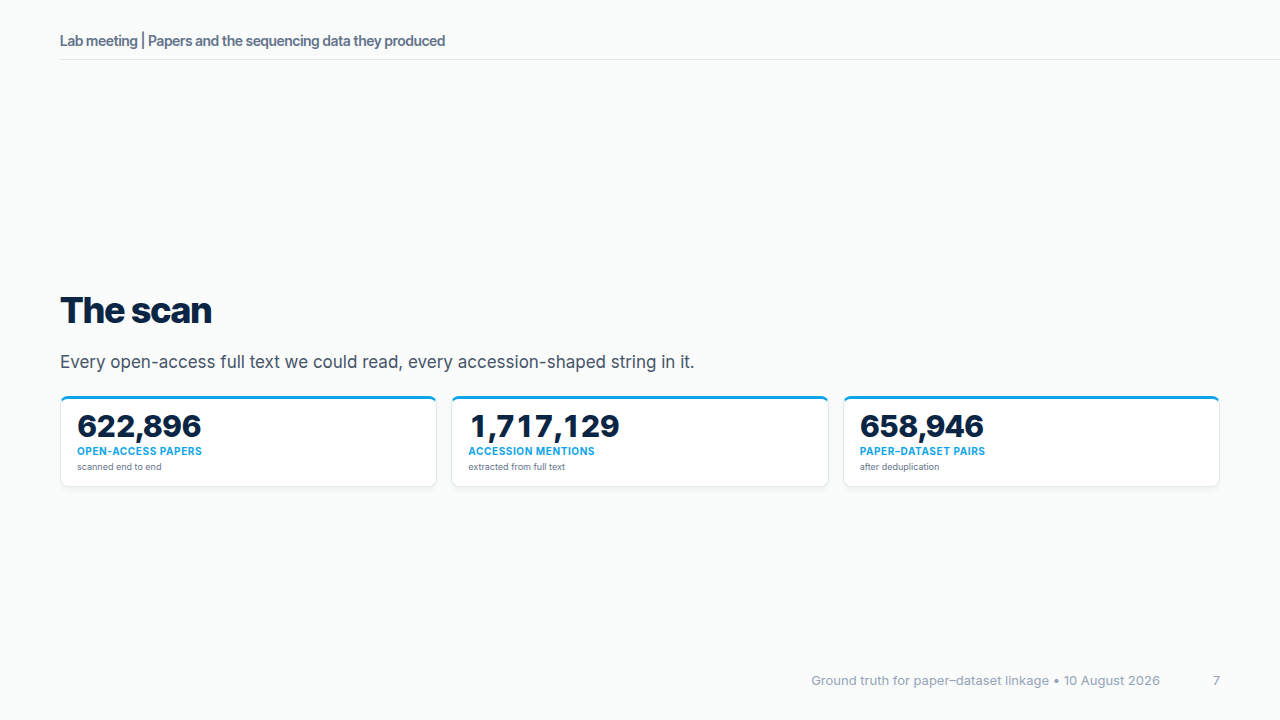
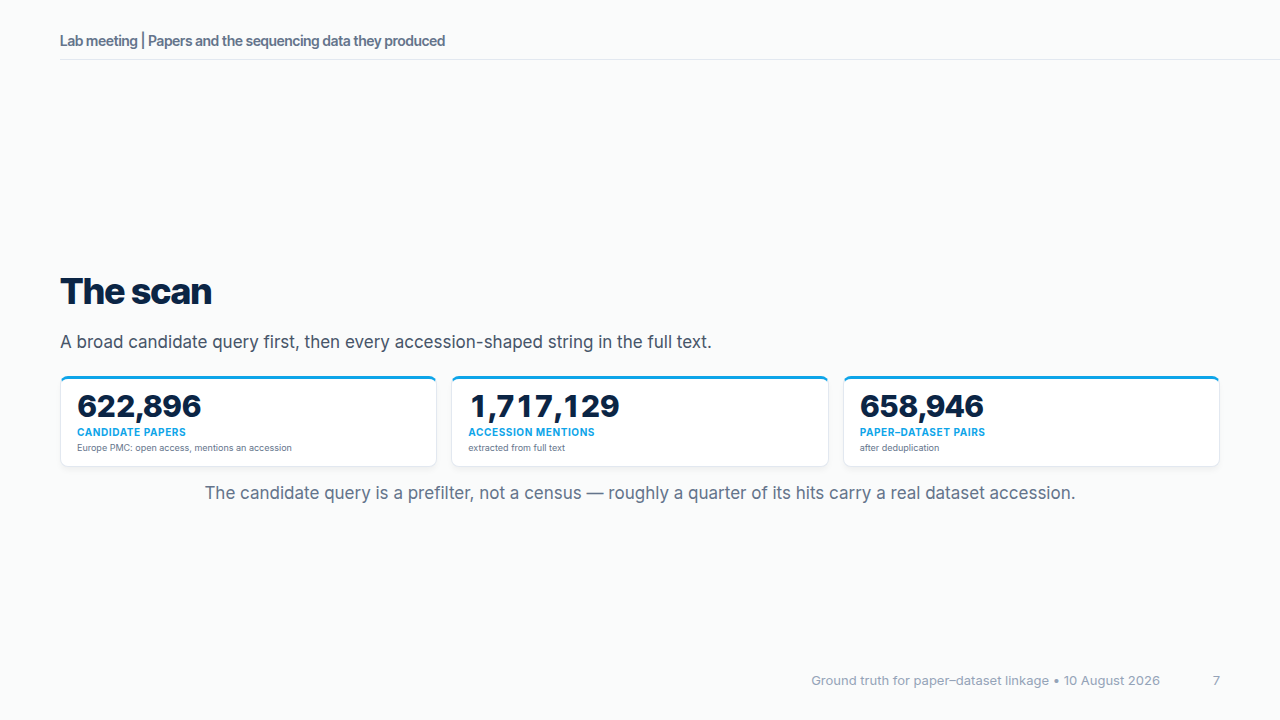
Correct six figures in the paper-SRA linkage deck
Author rulings applied against the source data in metadata/paper-sra-linkage:

- Scan slide: 622,896 is the Europe PMC candidate query, a ~25%-precision
  prefilter, not "open-access papers scanned end to end". Relabelled here and
  on takeaways; completeness claim removed.
- Near-misses: headline is now "all 33 GEO-routed papers in a sample of 40
  never write the BioProject accession", with 36 of 40 (counting every alias)
  as the broader claim. The old wording attributed all 36 to GEO.
- Self-checks: fabrication 7.5% (18 of 241), the figure the audit tooling
  reproduces, plus the near-miss caveat. 4.6% dropped.
- Validation: 117 / 2 / 96% / ~32% now state their population — adjudications
  with full-text evidence and a verifying quote.
- Reach slide becomes "What it actually decides": the signal has been run over
  all 140,768 GEO series, deciding 387,914 pairs (59%), rescuing 138,836 from
  ambiguous, and disagreeing with the text classifier on only 2.0% of the
  249,078 pairs where both commit. Projected deliverable 83,164 -> 138,192.
  The reachable-vs-decided gap stays visible as a caveat.
- 0.8% author-overlap null now has a reproducible artifact; CLAUDE.md cites it.

CLAUDE.md records how each was resolved and warns that data/status.json and
its sibling logs carry a superseded relation split.

Changed region(s): [[0.0312, 0.3667, 0.9375, 0.7028]]

diff --git a/paper_sra_linkage_Aug_2026/slides.html b/paper_sra_linkage_Aug_2026/slides.html
@@ -90,8 +90,9 @@
 <header>Lab meeting | Papers and the sequencing data they produced</header>
 
 <h1 id="the-scan">The scan</h1>
-<p>Every open-access full text we could read, every accession-shaped string in it.</p>
-<div class="stats accent-sky" style="--cols:3"><div class="stat"><span class="stat-value">622,896</span><span class="stat-label">open-access papers</span><span class="stat-note">scanned end to end</span></div><div class="stat"><span class="stat-value">1,717,129</span><span class="stat-label">accession mentions</span><span class="stat-note">extracted from full text</span></div><div class="stat"><span class="stat-value">658,946</span><span class="stat-label">paper–dataset pairs</span><span class="stat-note">after deduplication</span></div></div><footer>Ground truth for paper–dataset linkage • 10 August 2026</footer>
+<p>A broad candidate query first, then every accession-shaped string in the full text.</p>
+<div class="stats accent-sky" style="--cols:3"><div class="stat"><span class="stat-value">622,896</span><span class="stat-label">candidate papers</span><span class="stat-note">Europe PMC: open access, mentions an accession</span></div><div class="stat"><span class="stat-value">1,717,129</span><span class="stat-label">accession mentions</span><span class="stat-note">extracted from full text</span></div><div class="stat"><span class="stat-value">658,946</span><span class="stat-label">paper–dataset pairs</span><span class="stat-note">after deduplication</span></div></div><p class="dim center">The candidate query is a prefilter, not a census — roughly a quarter of its hits carry a real dataset accession.</p>
+<footer>Ground truth for paper–dataset linkage • 10 August 2026</footer>
 </section>
 </foreignObject></svg><svg data-marpit-svg="" viewBox="0 0 1280 720"><foreignObject width="1280" height="720"><section id="8" data-paginate="true" data-header="Lab meeting | Papers and the sequencing data they produced" data-footer="Ground truth for paper–dataset linkage • 10 August 2026" data-class="compact middle" data-theme="deckkit" lang="en-US" class="compact middle" data-marpit-pagination="8" style="--paginate:true;--header:Lab meeting | Papers and the sequencing data they produced;--footer:Ground truth for paper–dataset linkage • 10 August 2026;--class:compact middle;--theme:deckkit;" data-marpit-pagination-total="20" data-size="16:9">
 <header>Lab meeting | Papers and the sequencing data they produced</header>
@@ -123,14 +124,16 @@
 </div></div><div class="card card-left accent-indigo size-md"><div class="card-title">Independent adjudicator</div><div class="card-body"><p>A second model in a fresh context that never saw the classifier or its rules. The author of a rule is not a neutral judge of that rule.</p>
 </div></div><div class="card card-left accent-purple size-md"><div class="card-title">Verbatim quote, mechanically checked</div><div class="card-body"><p>Every verdict must carry a quote, checked character-for-character against the source. A fluent justification for a claim the paper never makes gets caught automatically.</p>
 </div></div><div class="card card-left accent-emerald size-md"><div class="card-title">Human spot check</div><div class="card-body"><p>The lab, in interview format, one paper at a time.</p>
-</div></div></div><div class="metrics accent-purple"><div class="metric"><span class="metric-name">Genuine fabrication rate the guards measured</span><span class="metric-value">4.6%</span></div></div><footer>Ground truth for paper–dataset linkage • 10 August 2026</footer>
+</div></div></div><div class="metrics accent-purple"><div class="metric"><span class="metric-name">Fabrication rate the guards measured</span><span class="metric-value">7.5% (18 of 241 verdicts)</span></div></div><p class="dim center">Inspection suggests roughly half of the 18 are near-misses — whitespace, a minor edit, a quote spanning a paragraph break — rather than invention.</p>
+<footer>Ground truth for paper–dataset linkage • 10 August 2026</footer>
 </section>
 </foreignObject></svg><svg data-marpit-svg="" viewBox="0 0 1280 720"><foreignObject width="1280" height="720"><section id="11" data-paginate="true" data-header="Lab meeting | Papers and the sequencing data they produced" data-footer="Ground truth for paper–dataset linkage • 10 August 2026" data-class="compact middle" data-theme="deckkit" lang="en-US" class="compact middle" data-marpit-pagination="11" style="--paginate:true;--header:Lab meeting | Papers and the sequencing data they produced;--footer:Ground truth for paper–dataset linkage • 10 August 2026;--class:compact middle;--theme:deckkit;" data-marpit-pagination-total="20" data-size="16:9">
 <header>Lab meeting | Papers and the sequencing data they produced</header>
 
 <h1 id="attempt-1--validation">Attempt 1 — validation</h1>
 <p>When the text classifier commits to an answer, it is right. It just rarely commits.</p>
-<div class="cols" style="grid-template-columns:1fr 1fr"><div class="col"><div class="metrics accent-emerald"><div class="metric"><span class="metric-name">Pairs where the classifier committed</span><span class="metric-value">117</span></div><div class="metric"><span class="metric-name">Contradicted by the independent adjudicator</span><span class="metric-value">2</span></div><div class="metric"><span class="metric-name">Precision on &quot;generated&quot;</span><span class="metric-value">96%</span></div><div class="metric"><span class="metric-name">Abstains even where the text <em>does</em> settle it</span><span class="metric-value">~32%</span></div></div></div><div class="col"><div class="note accent-amber"><p><strong>The problem is recall, not precision.</strong></p>
+<div class="cols" style="grid-template-columns:1fr 1fr"><div class="col"><div class="metrics accent-emerald"><div class="metric"><span class="metric-name">Pairs where the classifier committed</span><span class="metric-value">117</span></div><div class="metric"><span class="metric-name">Contradicted by the independent adjudicator</span><span class="metric-value">2</span></div><div class="metric"><span class="metric-name">Precision on &quot;generated&quot;</span><span class="metric-value">96%</span></div><div class="metric"><span class="metric-name">Abstains even where the text <em>does</em> settle it</span><span class="metric-value">~32%</span></div></div><p class="dim">Computed over the adjudications that had real full-text evidence <strong>and</strong> a quote that verified against the source.</p>
+</div><div class="col"><div class="note accent-amber"><p><strong>The problem is recall, not precision.</strong></p>
 <p>Tuning the rules harder would not help. The classifier is not making mistakes — it is staying silent, because the sentence it needs is usually not there.</p>
 </div></div></div><footer>Ground truth for paper–dataset linkage • 10 August 2026</footer>
 </section>
@@ -148,7 +151,8 @@
 </div></div><div class="card card-top accent-amber size-sm"><div class="card-tag">silent corruption</div><div class="card-title">A fix that fabricated data</div><div class="card-body"><p>Accessions sometimes fuse with citation superscripts in the text. The &quot;fix&quot; trimmed trailing digits.</p>
 <p>Trimming a real accession lands on a <strong>different real accession 28–99% of the time</strong>, depending on prefix.</p>
 <p>Losing a mention is recoverable. Silently rewriting one into another group's dataset is not. The fix was removed entirely.</p>
-</div></div><div class="card card-top accent-purple size-sm"><div class="card-tag">wrong search term</div><div class="card-title">The hidden BioProject</div><div class="card-body"><p>Papers routed through GEO cite the GEO series accession and never write the BioProject ID at all — <strong>36 of 40</strong> in a hand-checked sample.</p>
+</div></div><div class="card card-top accent-purple size-sm"><div class="card-tag">wrong search term</div><div class="card-title">The hidden BioProject</div><div class="card-body"><p>Papers routed through GEO cite the GEO series accession and never write the BioProject ID at all — <strong>all 33</strong> GEO-routed papers in a hand-checked sample of 40.</p>
+<p>Counting every alias, <strong>36 of 40</strong> never write the BioProject accession.</p>
 <p>Searching the paper for the BioProject finds nothing, and &quot;nothing&quot; looked like <em>no evidence</em> when it actually meant <em>wrong search term</em>.</p>
 </div></div></div><footer>Ground truth for paper–dataset linkage • 10 August 2026</footer>
 </section>
@@ -193,9 +197,11 @@
 </foreignObject></svg><svg data-marpit-svg="" viewBox="0 0 1280 720"><foreignObject width="1280" height="720"><section id="17" data-paginate="true" data-header="Lab meeting | Papers and the sequencing data they produced" data-footer="Ground truth for paper–dataset linkage • 10 August 2026" data-class="compact middle" data-theme="deckkit" lang="en-US" class="compact middle" data-marpit-pagination="17" style="--paginate:true;--header:Lab meeting | Papers and the sequencing data they produced;--footer:Ground truth for paper–dataset linkage • 10 August 2026;--class:compact middle;--theme:deckkit;" data-marpit-pagination-total="20" data-size="16:9">
 <header>Lab meeting | Papers and the sequencing data they produced</header>
 
-<h1 id="how-far-this-reaches">How far this reaches</h1>
-<p>Nearly two thirds of everything we extracted routes through GEO — and so is reachable this way.</p>
-<div class="stats accent-indigo" style="--cols:2"><div class="stat"><span class="stat-value">422,514</span><span class="stat-label">GEO-routed pairs</span><span class="stat-note">64% of the 658,946 we extracted</span></div><div class="stat"><span class="stat-value">155,741</span><span class="stat-label">currently stuck</span><span class="stat-note">ambiguous pairs this signal can reach</span></div></div><footer>Ground truth for paper–dataset linkage • 10 August 2026</footer>
+<h1 id="what-it-actually-decides">What it actually decides</h1>
+<p>Signal A has now been run across all 140,768 GEO series and loaded.</p>
+<div class="stats accent-indigo" style="--cols:3"><div class="stat"><span class="stat-value">387,914</span><span class="stat-label">pairs decided</span><span class="stat-note">59% of the 658,946 we extracted</span></div><div class="stat"><span class="stat-value">138,836</span><span class="stat-label">rescued from ambiguous</span><span class="stat-note">67,715 of them newly <em>generated</em></span></div><div class="stat"><span class="stat-value">138,192</span><span class="stat-label">papers in the deliverable</span><span class="stat-note">up from 83,164 — a 66% increase</span></div></div><div class="callout accent-emerald"><div class="callout-title"><span>🤝</span><span>Two methods sharing no evidence agree on 98% of pairs</span></div><div class="callout-body"><p>Where the text classifier also committed, the two disagree on <strong>2.0%</strong> — 5,077 of 249,078 pairs. One reads prose, the other reads archive metadata, and neither was tuned against the other.</p>
+</div></div><div class="note accent-slate"><p>88% holds at full scale: 123,121 of 140,368 series carry a linked publication. And 422,514 pairs — 64% of the total — are GEO-<em>reachable</em>, but only 387,914 are decided; the gap is series with no linked publication at all.</p>
+</div><footer>Ground truth for paper–dataset linkage • 10 August 2026</footer>
 </section>
 </foreignObject></svg><svg data-marpit-svg="" viewBox="0 0 1280 720"><foreignObject width="1280" height="720"><section id="18" data-paginate="true" data-header="Lab meeting | Papers and the sequencing data they produced" data-footer="Ground truth for paper–dataset linkage • 10 August 2026" data-class="compact middle" data-theme="deckkit" lang="en-US" class="compact middle" data-marpit-pagination="18" style="--paginate:true;--header:Lab meeting | Papers and the sequencing data they produced;--footer:Ground truth for paper–dataset linkage • 10 August 2026;--class:compact middle;--theme:deckkit;" data-marpit-pagination-total="20" data-size="16:9">
 <header>Lab meeting | Papers and the sequencing data they produced</header>
@@ -209,17 +215,17 @@
 <header>Lab meeting | Papers and the sequencing data they produced</header>
 
 <h1 id="where-we-are-and-what-is-next">Where we are, and what is next</h1>
-<p>The table as it stands today, and the three steps queued behind it.</p>
-<div class="stats accent-emerald tight" style="--cols:3"><div class="stat"><span class="stat-value">83,164</span><span class="stat-label">papers</span><span class="stat-note">linked to data they generated</span></div><div class="stat"><span class="stat-value">95,831</span><span class="stat-label">datasets</span><span class="stat-note">attributed to a generating paper</span></div><div class="stat"><span class="stat-value">1</span><span class="stat-label">median datasets per paper</span><span class="stat-note">most papers produce exactly one</span></div></div><div class="timeline"><div class="track accent-indigo"><div class="track-header"><div class="track-title">Queued behind it</div></div><div class="track-lane"><div class="node node-lg" style="--x:12%"><div class="node-dot"></div><div class="node-info">Running now<span class="node-value">140,768 series</span><span class="node-note">GEO→PMID across<br />every GEO series</span></div></div><div class="node node-md" style="--x:50%"><div class="node-dot"></div><div class="node-info">Next<span class="node-value">BioSample</span><span class="node-note">Re-measure richness<br />from sample records</span></div></div><div class="node node-open" style="--x:88%"><div class="node-dot"></div><div class="node-info">Then<span class="node-value">Experiment</span><span class="node-note">Reconstruct metadata<br />from the paper alone</span></div></div></div></div></div><div class="callout accent-amber callout-slim"><div class="callout-title"><span>🔬</span><span>Why richness gets re-measured</span></div><div class="callout-body"><p>The reconstruction experiment needs datasets whose metadata is worth hiding. We measured that on sequencing-<strong>run</strong> records — median <strong>1</strong> sample group, attribute entropy <strong>0.0</strong>, i.e. no variation to reconstruct. Run records describe machines; experimental design lives in the sample records.</p>
+<p>The table as it stands today — before the GEO signal is merged in — and what is queued behind it.</p>
+<div class="stats accent-emerald tight" style="--cols:3"><div class="stat"><span class="stat-value">83,164</span><span class="stat-label">papers</span><span class="stat-note">linked to data they generated</span></div><div class="stat"><span class="stat-value">95,831</span><span class="stat-label">datasets</span><span class="stat-note">attributed to a generating paper</span></div><div class="stat"><span class="stat-value">1</span><span class="stat-label">median datasets per paper</span><span class="stat-note">most papers produce exactly one</span></div></div><div class="timeline"><div class="track accent-indigo"><div class="track-header"><div class="track-title">Queued behind it</div></div><div class="track-lane"><div class="node node-lg" style="--x:12%"><div class="node-dot"></div><div class="node-info">Done<span class="node-value">140,768 series</span><span class="node-note">GEO→PMID across<br />every GEO series</span></div></div><div class="node node-md" style="--x:50%"><div class="node-dot"></div><div class="node-info">Next<span class="node-value">BioSample</span><span class="node-note">Re-measure richness<br />from sample records</span></div></div><div class="node node-open" style="--x:88%"><div class="node-dot"></div><div class="node-info">Then<span class="node-value">Experiment</span><span class="node-note">Reconstruct metadata<br />from the paper alone</span></div></div></div></div></div><div class="callout accent-amber callout-slim"><div class="callout-title"><span>🔬</span><span>Why richness gets re-measured</span></div><div class="callout-body"><p>The reconstruction experiment needs datasets whose metadata is worth hiding. We measured that on sequencing-<strong>run</strong> records — median <strong>1</strong> sample group, attribute entropy <strong>0.0</strong>, i.e. no variation to reconstruct. Run records describe machines; experimental design lives in the sample records.</p>
 </div></div><footer>Ground truth for paper–dataset linkage • 10 August 2026</footer>
 </section>
 </foreignObject></svg><svg data-marpit-svg="" viewBox="0 0 1280 720"><foreignObject width="1280" height="720"><section id="20" data-paginate="true" data-header="Lab meeting | Papers and the sequencing data they produced" data-footer="Ground truth for paper–dataset linkage • 10 August 2026" data-class="compact middle" data-theme="deckkit" lang="en-US" class="compact middle" data-marpit-pagination="20" style="--paginate:true;--header:Lab meeting | Papers and the sequencing data they produced;--footer:Ground truth for paper–dataset linkage • 10 August 2026;--class:compact middle;--theme:deckkit;" data-marpit-pagination-total="20" data-size="16:9">
 <header>Lab meeting | Papers and the sequencing data they produced</header>
 
 <h1 id="takeaways">Takeaways</h1>
-<div class="cards" style="--cols:2;--gap:18px"><div class="card card-left accent-sky size-md"><div class="card-title">The hard part is not extraction</div><div class="card-body"><p>Finding accession numbers in 622,896 papers is engineering. Deciding whether each one was <em>generated</em> or <em>reused</em> is the actual problem.</p>
+<div class="cards" style="--cols:2;--gap:18px"><div class="card card-left accent-sky size-md"><div class="card-title">The hard part is not extraction</div><div class="card-body"><p>Finding accession numbers across 622,896 candidate papers is engineering. Deciding whether each one was <em>generated</em> or <em>reused</em> is the actual problem.</p>
 </div></div><div class="card card-left accent-rose size-md"><div class="card-title">Text-only hits a wall you cannot tune past</div><div class="card-body"><p>~56% of pairs decided. The rest went undecided because the sentence was never written — not because the rules were too strict.</p>
-</div></div><div class="card card-left accent-emerald size-md"><div class="card-title">Metadata answers questions the text never asks</div><div class="card-body"><p>GEO's linked PMID and author-name overlap decide pairs with no deposition sentence at all. Reachable for 422,514 pairs — 64% of the total — including 155,741 currently ambiguous.</p>
+</div></div><div class="card card-left accent-emerald size-md"><div class="card-title">Metadata answers questions the text never asks</div><div class="card-body"><p>GEO's linked PMID and author-name overlap decide pairs with no deposition sentence at all. Run at scale it settles 387,914 pairs — 59% of the total — and rescues 138,836 from ambiguous.</p>
 </div></div><div class="card card-left accent-purple size-md"><div class="card-title">Check the checker</div><div class="card-body"><p>Blind sampling, an independent adjudicator, and mechanically verified quotes caught a link-back rate measured from a broken sample, a &quot;fix&quot; that rewrote accessions, and a search term that was silently wrong.</p>
 </div></div></div><footer>Ground truth for paper–dataset linkage • 10 August 2026</footer>
 </section>

diff --git a/paper_sra_linkage_Aug_2026/CLAUDE.md b/paper_sra_linkage_Aug_2026/CLAUDE.md
@@ -24,72 +24,97 @@ The arc, in order:
    the three near-misses (bad sample, fabricating "fix", hidden BioProject).
 6. The pivot: two metadata signals that never read the paper — GEO's linked
    PMID, and paper-author / dataset-submitter surname overlap.
-7. Reach, caveats, current deliverable, next steps.
+7. What the archive signal decides at full scale (and its 2.0% disagreement
+   with the text classifier), caveats, current deliverable, next steps.
 
 ## Where the numbers come from
 
 Figures come from the analysis in the `metadata/paper-sra-linkage` repo (scan
-outputs, validation and adjudication runs, hand-labelled samples). Numbers as
-briefed — but see **Unresolved against the source data** below. A trace of all
-14 figure groups back to the repo on 10 Aug 2026 confirmed most of them exactly
-and found six the underlying data does not support as labelled. Those six are
-still on the slides as briefed, because correcting them needs a decision from
-the author, not a guess.
+outputs, validation and adjudication runs, hand-labelled samples). A trace of
+all 14 figure groups back to the repo on 10 Aug 2026 confirmed most of them
+exactly and flagged six; all six were resolved by author ruling the same day and
+the slides now reflect the rulings — see **Resolved against the source data**
+below.
 
 | Slide | Figure |
 | --- | --- |
-| The scan | 622,896 papers · 1,717,129 mentions · 658,946 pairs |
+| The scan | 622,896 **candidate** papers (Europe PMC query, ~25% precision prefilter) · 1,717,129 mentions · 658,946 pairs |
 | Attempt 1 result | 99,538 generated / 267,661 reused / 291,747 ambiguous (~56% decided) |
-| Self-checks | measured genuine fabrication 4.6% |
-| Attempt 1 validation | 117 committed, 2 contradicted, 96% precision on "generated", abstains on ~32% of pairs the text settles |
-| Near-misses | reciprocal-link rate reported 64% vs actual 2.3%; accession trimming lands on a different real accession 28–99% of the time; 36 of 40 GEO-routed papers never write the BioProject ID |
+| Self-checks | fabrication 7.5% (18 of 241 verdicts); ~half of the 18 are near-misses |
+| Attempt 1 validation | 117 committed, 2 contradicted, 96% precision on "generated", abstains on ~32% — over adjudications with full-text evidence *and* a verifying quote |
+| Near-misses | reciprocal-link rate reported 64% vs actual 2.3%; accession trimming lands on a different real accession 28–99% of the time; all 33 GEO-routed papers of 40 never write the BioProject ID (36 of 40 counting every alias) |
 | Signal A | 88% of GEO series carry a linked PMID; correct 7 of 7 where it fired |
 | Signal B | correct 8 of 8; overlap-coefficient histogram over 33 sampled pairs (21 / 1 / 1 / 1 / 9); 0.8% of unrelated pairs reach the threshold; the one item Signal A could not decide scored 0.89 |
-| Reach | 64% of pairs = 422,514, including 155,741 currently ambiguous |
-| Deliverable | 83,164 papers · 95,831 datasets · median 1 dataset per paper |
+| What it decides | 387,914 pairs decided (59%), 138,836 rescued from ambiguous (67,715 newly generated), 2.0% disagreement with the text classifier (5,077 of 249,078), deliverable 83,164 → 138,192 papers (+66%), 123,121 of 140,368 series with a linked publication, 422,514 GEO-reachable (64%) |
+| Deliverable | 83,164 papers · 95,831 datasets · median 1 dataset per paper (pre-merge) |
 | Next | 140,768 GEO series; run-record richness gave median attribute entropy 0.0, median 1 sample group |
 
-## Unresolved against the source data
+## Resolved against the source data
 
-Traced 10 Aug 2026 against `metadata/paper-sra-linkage`. Confirmed exact: the
-mention and pair counts, the 99,538 / 267,661 / 291,747 split (live DB, not the
-stale `data/status.json`), the ~56% derivation, 88%, the 21/1/1/1/9 histogram,
-0.89, 422,514 / 155,741, 83,164 / 95,831 / median 1, and 140,768. Outstanding:
+Traced 10 Aug 2026 against `metadata/paper-sra-linkage`; six issues were raised
+and all six were ruled on by the author and applied to the slides the same day.
+Confirmed exact and untouched: the mention and pair counts, the 99,538 /
+267,661 / 291,747 split (live DB, **not** `data/status.json` — see the warning
+below), the ~56% derivation, 88%, the 21/1/1/1/9 histogram, 0.89, 83,164 /
+95,831 / median 1, and 140,768.
 
-1. **"622,896 open-access papers · scanned end to end" is mislabelled.**
-   622,896 is `counts.paper` — the Europe PMC *candidate-query* table, which the
-   repo README calls a prefilter at ~25% precision. The scan itself covered
-   millions of articles (`data/bulk_extract.log`, `data/finish.log`). So the
-   number is right and the words around it are wrong, in both directions: it is
-   not "papers scanned", and the slide lead "every open-access full text we
-   could read" claims a completeness the candidate query does not have. Same
-   number reappears on the takeaways slide.
-2. **"36 of 40" does not follow from any count in the repo.** From
-   `data/interview.json`: 36 is the number of items citing the dataset under
-   *some other* accession form. Papers that never write the BioProject is
-   **35 of 40**; and only **33 of 40** are GEO-routed at all, of which 33/33
-   never write it. Numerator and denominator are both off. Bad number to leave
-   on the slide about being fooled by bad numbers.
-3. **4.6% fabrication is not reproducible from the artifacts.** Re-running
-   `validate.audit_adjudications` over `data/adjudicated.json` prints **7.5%**
-   (18 of 241). The 4.6% comes from a hand-split in commit `172ec63` calling 7
-   of the 18 near-misses (11/241 = 4.56%); that split is recorded nowhere else.
-4. **117 / 2 / 96% / ~32% reproduce only under an unstated filter** —
-   `evidence_source == 'fulltext'` and excluding the 18 unverifiable-quote
-   items. Unfiltered the same quantities are 161 / 3 / 97.9% / 33.2%. The
-   filter should be stated if anyone asks how the sample was drawn.
-5. **"this signal can reach" on the reach slide is doing real work.** 422,514
-   and 155,741 are applicability, not resolution. What Signal A actually decides
-   is 387,914 pairs (58.9%), rescuing 138,836 from ambiguous (commit `0d65421`,
-   confirmed against the DB). Do not let "reach" drift into "decided".
-6. **0.8% has no data artifact** — the unrelated-pair null lives only in commit
-   `0d65421` and the `src/geo_pmid.py` docstring, not in
-   `data/author_overlap.json`. Worth regenerating before the deck is reused.
+1. **622,896 is a candidate count, not a census.** It is `counts.paper` — the
+   Europe PMC *candidate-query* table, a prefilter at roughly 25% precision.
+   Ruled: label it "candidate papers", say the query is open-access articles
+   mentioning an accession, drop "scanned end to end" and any completeness
+   claim. Applied on the scan slide (which now carries an explicit prefilter
+   caption) and on the takeaways slide. 1,717,129 and 658,946 are unaffected.
+2. **"36 of 40" was mis-attributed.** Authoritative counts for the 40-paper
+   sample: 33 cite a GEO series, 3 cite another alias (ERP019477, SRR1653248,
+   SRP061658), 4 cite the BioProject directly. So 36 of 40 never write the
+   BioProject accession, but only 33 are GEO-routed. Ruled headline: **"all 33
+   GEO-routed papers in the sample never write the BioProject accession"**, with
+   "36 of 40 never write it" kept as the broader claim underneath. **Never say
+   "36 of 40 cite a GEO series."**
+3. **Fabrication is 7.5%, not 4.6%.** 7.5% (18 of 241 decided verdicts) is what
+   `validate.audit_adjudications` reproduces over `data/adjudicated.json`; the
+   4.6% was an unrecorded hand-split. Ruled: present 7.5% and add that
+   inspection suggests roughly half of the 18 are near-misses (whitespace, minor
+   edits, a quote spanning a paragraph boundary) rather than invention. 4.6% is
+   gone from the deck.
+4. **117 / 2 / 96% / ~32% are a filtered population** — adjudications that had
+   real full-text evidence *and* a quote that verified. Ruled: keep the figures
+   and state the population at the point of claim (the validation slide now
+   does). The unfiltered equivalents 161 / 3 / 97.9% / 33.2% are the sanctioned
+   substitute if the slide ever needs to shed a line.
+5. **Reach became resolution.** The signal has been run over all 140,768 GEO
+   series and loaded, so the applicability framing (422,514 / 155,741 "can
+   reach") was replaced with measured outcomes: 123,121 of 140,368 series carry
+   a linked publication (88% confirmed at full scale); 387,914 distinct pairs
+   decided (59% of 658,946); 138,836 rescued from ambiguous, 67,715 of them
+   newly "generated"; 2.0% disagreement with the text classifier where both
+   committed (5,077 of 249,078); projected deliverable 83,164 → 138,192 papers
+   (+66%). The 2.0% carries its own callout — two methods sharing no evidence,
+   one reading prose and one reading archive metadata, neither tuned against the
+   other, agreeing on 98% of pairs where both speak. It is the strongest
+   validation in the deck. The caveat stays visible: 422,514 are GEO-reachable
+   but only 387,914 decided, the gap being series with no linked publication.
+   **Do not put "85%" anywhere** — an earlier pass produced it by counting
+   (pair, series) rows instead of distinct pairs.
+6. **The 0.8% null is now reproducible.** Artifact:
+   `metadata/paper-sra-linkage/data/author_overlap_null.json` (seed 0, 1,818
+   pairs) — null mean 0.0251, 0.77% at or above the 0.5 threshold; real mean
+   0.2909, 30.3% at or above. Headline stays 0.8%.
 
 Minor: "28–99%" truncates 99.6% (rounds to 100), so it understates — safe
-direction, left alone. Note also that `data/status.json`, `data/supervise.log`
-and `README.md` all carry superseded figures that contradict the deck while the
-deck is right; `status.json` is the file a sceptic will open first.
+direction, left alone.
+
+### Warning: `data/status.json` is not a check on this deck
+
+`metadata/paper-sra-linkage/data/status.json` is the file a sceptic will open
+first, and it will mislead them. The relation split it belongs to —
+**100,206 generated / 224,825 reused / 333,915 ambiguous** — is **superseded**;
+the current split is **99,538 / 267,661 / 291,747** (live DB). That stale split
+is printed in `data/supervise.log` and `data/supervise_run.log`, which sit
+beside `status.json` and share its timestamp; `README.md` carries superseded
+figures too. `status.json`'s own `counts` block (622,896 / 1,717,129 / 658,946)
+does agree with the deck. Where the archived artifacts and the deck disagree,
+the deck is right.
 
 ## Collisions the deck is built to defuse
 
@@ -99,9 +124,11 @@ Check any edit against these:
   reciprocal-link rate on the near-miss slide (true value 2.3%) *and* the
   GEO-routed share on the reach slide. Both are as briefed, so neither is
   removed — instead the near-miss card is titled by the quantity ("A link-back
-  rate that was really 2.3%"), the reach slide leads with the count (422,514)
-  and carries 64% only as its note, and the takeaways slide no longer repeats
-  either percentage. Do not promote 64% back to a headline.
+  rate that was really 2.3%"), the "What it actually decides" slide leads with
+  387,914 and carries 422,514 / 64% only in its closing note, and the takeaways
+  slide no longer repeats either percentage. Do not promote 64% back to a
+  headline — and keep it stated somewhere on that slide, because the caveats
+  slide's "other 36%" is the labelled remainder of it.
 - **Never state a complement as if it were measured.** The takeaways slide says
   "~56% of pairs decided. The rest went undecided…" rather than naming a 44%.
   (The "other 36%" on the caveats slide is fine: it is the labelled remainder of

diff --git a/paper_sra_linkage_Aug_2026/slides.md b/paper_sra_linkage_Aug_2026/slides.md
@@ -155,13 +155,15 @@ Get this wrong and the ground truth is poisoned: you end up asking a model to pr
 
 # The scan
 
-Every open-access full text we could read, every accession-shaped string in it.
+A broad candidate query first, then every accession-shaped string in the full text.
 
 ```stats accent=sky
-622,896 | open-access papers | scanned end to end
+622,896 | candidate papers | Europe PMC: open access, mentions an accession
 1,717,129 | accession mentions | extracted from full text
 658,946 | paper–dataset pairs | after deduplication
 ```
+
+The candidate query is a prefilter, not a census — roughly a quarter of its hits carry a real dataset accession. {.dim .center}
 
 <!--
 Scale is not the hard part. Extraction at this scale is a solved engineering
@@ -252,8 +254,10 @@ The lab, in interview format, one paper at a time.
 :::
 
 ```metrics accent=purple
-Genuine fabrication rate the guards measured | 4.6%
+Fabrication rate the guards measured | 7.5% (18 of 241 verdicts)
 ```
+
+Inspection suggests roughly half of the 18 are near-misses — whitespace, a minor edit, a quote spanning a paragraph break — rather than invention. {.dim .center}
 
 ---
 
@@ -270,6 +274,8 @@ Contradicted by the independent adjudicator | 2
 Precision on "generated" | 96%
 Abstains even where the text *does* settle it | ~32%
 ```
+
+Computed over the adjudications that had real full-text evidence **and** a quote that verified against the source. {.dim}
 
 +++
 
@@ -308,7 +314,9 @@ Losing a mention is recoverable. Silently rewriting one into another group's dat
 
 ### The hidden BioProject {tag="wrong search term" accent=purple}
 
-Papers routed through GEO cite the GEO series accession and never write the BioProject ID at all — **36 of 40** in a hand-checked sample.
+Papers routed through GEO cite the GEO series accession and never write the BioProject ID at all — **all 33** GEO-routed papers in a hand-checked sample of 40.
+
+Counting every alias, **36 of 40** never write the BioProject accession.
 
 Searching the paper for the BioProject finds nothing, and "nothing" looked like *no evidence* when it actually meant *wrong search term*.
 :::
@@ -426,14 +434,23 @@ Author overlap on the same item: **0.89**.
 
 <!-- _class: compact middle -->
 
-# How far this reaches
+# What it actually decides
 
-Nearly two thirds of everything we extracted routes through GEO — and so is reachable this way.
+Signal A has now been run across all 140,768 GEO series and loaded.
 
 ```stats accent=indigo
-422,514 | GEO-routed pairs | 64% of the 658,946 we extracted
-155,741 | currently stuck | ambiguous pairs this signal can reach
+387,914 | pairs decided | 59% of the 658,946 we extracted
+138,836 | rescued from ambiguous | 67,715 of them newly *generated*
+138,192 | papers in the deliverable | up from 83,164 — a 66% increase
 ```
+
+::: callout title="Two methods sharing no evidence agree on 98% of pairs" icon="🤝" accent=emerald
+Where the text classifier also committed, the two disagree on **2.0%** — 5,077 of 249,078 pairs. One reads prose, the other reads archive metadata, and neither was tuned against the other.
+:::
+
+::: note accent=slate
+88% holds at full scale: 123,121 of 140,368 series carry a linked publication. And 422,514 pairs — 64% of the total — are GEO-*reachable*, but only 387,914 are decided; the gap is series with no linked publication at all.
+:::
 
 ---
 
@@ -462,7 +479,7 @@ weakest numbers in the talk and the most likely to be quoted back.
 
 # Where we are, and what is next
 
-The table as it stands today, and the three steps queued behind it.
+The table as it stands today — before the GEO signal is merged in — and what is queued behind it.
 
 ```stats accent=emerald .tight cols=3
 83,164 | papers | linked to data they generated
@@ -472,7 +489,7 @@ The table as it stands today, and the three steps queued behind it.
 
 ```timeline
 track: Queued behind it | accent=indigo
-node: 12% | Running now | 140,768 series | GEO→PMID across // every GEO series | lg
+node: 12% | Done | 140,768 series | GEO→PMID across // every GEO series | lg
 node: 50% | Next | BioSample | Re-measure richness // from sample records | md
 node: 88% | Then | Experiment | Reconstruct metadata // from the paper alone | open
 ```
@@ -490,7 +507,7 @@ The reconstruction experiment needs datasets whose metadata is worth hiding. We 
 ::: cards cols=2 gap=18px size=md border=left
 ### The hard part is not extraction {accent=sky}
 
-Finding accession numbers in 622,896 papers is engineering. Deciding whether each one was *generated* or *reused* is the actual problem.
+Finding accession numbers across 622,896 candidate papers is engineering. Deciding whether each one was *generated* or *reused* is the actual problem.
 
 ### Text-only hits a wall you cannot tune past {accent=rose}
 
@@ -498,7 +515,7 @@ Finding accession numbers in 622,896 papers is engineering. Deciding whether eac
 
 ### Metadata answers questions the text never asks {accent=emerald}
 
-GEO's linked PMID and author-name overlap decide pairs with no deposition sentence at all. Reachable for 422,514 pairs — 64% of the total — including 155,741 currently ambiguous.
+GEO's linked PMID and author-name overlap decide pairs with no deposition sentence at all. Run at scale it settles 387,914 pairs — 59% of the total — and rescues 138,836 from ambiguous.
 
 ### Check the checker {accent=purple}
 
